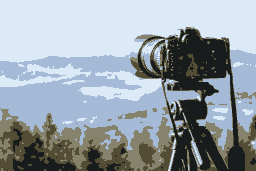
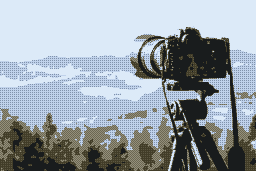
Working type 1 colored dithering

diff --git a/src/picture/ColoredDitheringConvertor.java b/src/picture/ColoredDitheringConvertor.java
@@ -12,7 +12,8 @@ public final class ColoredDitheringConvertor {
 
 	private static int _pictureWidth, _pictureHeight;
 
-	private static int _whitePixel, _lightPixel, _mediumPixel, _darkPixel, _blackPixel;
+	private static int[] _lightPixel, _mediumPixel, _darkPixel;
+	private static int _whitePixel, _blackPixel;
 
 	/* CONSTRUCTORS */
 
@@ -37,6 +38,7 @@ public final class ColoredDitheringConvertor {
 	private static BufferedImage executeConversion(int exportedWidth) {
 		prepareVariables(exportedWidth);
 		getPixelShades();
+		createPalette();
 		mainLoop();
 
 		return _exportedPicture;
@@ -49,13 +51,17 @@ public final class ColoredDitheringConvertor {
 		_pictureHeight = _importedPicture.getHeight();
 
 		_exportedPicture = new BufferedImage(_pictureWidth, _pictureHeight, BufferedImage.TYPE_INT_ARGB);
+
+		_lightPixel = new int[2];
+		_mediumPixel = new int[2];
+		_darkPixel = new int[2];
 	}
 
 	private static void getPixelShades() {
 		_blackPixel = extractLocationBasedColours(0);
-		_lightPixel = extractLocationBasedColours(1);
-		_mediumPixel = extractLocationBasedColours(2);
-		_darkPixel = extractLocationBasedColours(3);
+		_darkPixel[0] = extractLocationBasedColours(1);
+		_mediumPixel[0] = extractLocationBasedColours(2);
+		_lightPixel[0] = extractLocationBasedColours(3);
 		_whitePixel = extractLocationBasedColours(4);
 	}
 
@@ -88,43 +94,105 @@ public final class ColoredDitheringConvertor {
 	}
 
 	private static int pixelToLuminosity(int pixel) {
+		int[] rgb = getPixelValues(pixel);
+
+		return (int) (.3f * rgb[0] + .59f * rgb[1] + .11f * rgb[2]);
+	}
+
+	private static int[] getPixelValues(int pixel) {
 		int a = (pixel >> 24) & 0xff;
 		int r = (pixel >> 16) & 0xff;
 		int g = (pixel >> 8) & 0xff;
 		int b = pixel & 0xff;
 
-		return (int) (.3f * r + .59f * g + .11f * b);
+		return new int[] { r, g, b };
+	}
+
+	private static int getPixelValue(int[] rgb) {
+		return (255 << 24) | (rgb[0] << 16) | (rgb[1] << 8) | rgb[2];
+	}
+
+	private static void createPalette() {
+		int[] hsv = rgbToHsv(_darkPixel[0]);
+		_darkPixel[0] = hsvToRgb(hsv[0], Math.clamp(hsv[1] * 0.8f, 0f, 255f), Math.clamp(hsv[2] * 1.1f, 0f, 255f));
+		_darkPixel[1] = hsvToRgb(hsv[0], Math.clamp(hsv[1] * 1.1f, 0f, 255f), Math.clamp(hsv[2] * 0.8f, 0f, 255f));
+
+		hsv = rgbToHsv(_mediumPixel[0]);
+		_mediumPixel[0] = hsvToRgb(hsv[0], Math.clamp(hsv[1] * 0.8f, 0f, 255f), Math.clamp(hsv[2] * 1.1f, 0f, 255f));
+		_mediumPixel[1] = hsvToRgb(hsv[0], Math.clamp(hsv[1] * 1.1f, 0f, 255f), Math.clamp(hsv[2] * 0.8f, 0f, 255f));
+
+		hsv = rgbToHsv(_lightPixel[0]);
+		_lightPixel[0] = hsvToRgb(hsv[0], Math.clamp(hsv[1] * 0.8f, 0f, 255f), Math.clamp(hsv[2] * 1.1f, 0f, 255f));
+		_lightPixel[1] = hsvToRgb(hsv[0], Math.clamp(hsv[1] * 1.1f, 0f, 255f), Math.clamp(hsv[2] * 0.8f, 0f, 255f));
 	}
 
 	private static int[] rgbToHsv(int[] rgb) {
-		float r = (float) rgb[0] / 255f;
-		float g = (float) rgb[1] / 255f;
-		float b = (float) rgb[3] / 255f;
+		float r = ((float) rgb[0]) / 255f;
+		float g = ((float) rgb[1]) / 255f;
+		float b = ((float) rgb[2]) / 255f;
 
 		float M = Math.max(r, Math.max(g, b));
 		float m = Math.min(r, Math.min(g, b));
-		float c = M - m;
-		int s = (int) ((c / M) * 100f);
+		float d = M - m;
 
-		float R = (M - r) / c;
-		float G = (M - g) / c;
-		float B = (M - b) / c;
-
-		float H = 0;
-		if (M == m) {
-			H = 0;
-		} else if (M == r) {
-			H = 0f + B - G;
+		int h = 0;
+		if (M == r) {
+			h = Math.round(60f * (((g - b) / d) % 6));
 		} else if (M == g) {
-			H = 2f + R - B;
+			h = Math.round(60f * ((b - r) / d + 2f));
 		} else if (M == b) {
-			H = 4f + G - R;
+			h = Math.round(60f * ((r - g) / d + 4f));
 		}
-		
-		int h = (int) (((H / 6f) % 1 ) * 360f);
-		int v = (int) (M * 100f);
-		
-		return new int[] {h, s, v};
+
+		int s = 0;
+		if (M != 0) {
+			s = Math.round((d / M) * 100f);
+		}
+
+		int v = Math.round(M * 100f);
+
+		return new int[] { h, s, v };
+	}
+
+	private static int[] rgbToHsv(int value) {
+		return rgbToHsv(getPixelValues(value));
+	}
+
+	private static int[] hsvToRgb(int[] hsv) {
+		float h = (float) hsv[0];
+		float s = ((float) hsv[1]) / 100f;
+		float v = ((float) hsv[2]) / 100f;
+
+		float C = s * v;
+		float H = h / 60f;
+		float X = C * (1 - Math.abs(H % 2f - 1));
+
+		float[] RGB = new float[3];
+
+		if (H < 1) {
+			RGB = new float[] { C, X, 0 };
+		} else if (H < 2) {
+			RGB = new float[] { X, C, 0 };
+		} else if (H < 3) {
+			RGB = new float[] { 0, C, X };
+		} else if (H < 4) {
+			RGB = new float[] { 0, X, C };
+		} else if (H < 5) {
+			RGB = new float[] { X, 0, C };
+		} else if (H < 6) {
+			RGB = new float[] { C, 0, X };
+		}
+
+		float m = v - C;
+		int r = Math.round((RGB[0] + m) * 255f);
+		int g = Math.round((RGB[1] + m) * 255f);
+		int b = Math.round((RGB[2] + m) * 255f);
+
+		return new int[] { r, g, b };
+	}
+
+	private static int hsvToRgb(float h, float s, float v) {
+		return getPixelValue(hsvToRgb(new int[] { Math.round(h), Math.round(s), Math.round(v) }));
 	}
 
 	private static void mainLoop() {
@@ -145,13 +213,25 @@ public final class ColoredDitheringConvertor {
 			_exportedPicture.setRGB(x, y, _blackPixel);
 			break;
 		case 1:
-			_exportedPicture.setRGB(x, y, _lightPixel);
+			if (x % 2 == 0 || y % 2 == 0) {
+				_exportedPicture.setRGB(x, y, _darkPixel[1]);
+			} else {
+				_exportedPicture.setRGB(x, y, _darkPixel[0]);
+			}
 			break;
 		case 2:
-			_exportedPicture.setRGB(x, y, _mediumPixel);
+			if ((x + y) % 2 == 0) {
+				_exportedPicture.setRGB(x, y, _mediumPixel[1]);
+			} else {
+				_exportedPicture.setRGB(x, y, _mediumPixel[0]);
+			}
 			break;
 		case 3:
-			_exportedPicture.setRGB(x, y, _darkPixel);
+			if (x % 2 == 0 && y % 2 == 0) {
+				_exportedPicture.setRGB(x, y, _lightPixel[1]);
+			} else {
+				_exportedPicture.setRGB(x, y, _lightPixel[0]);
+			}
 			break;
 		default:
 			_exportedPicture.setRGB(x, y, _whitePixel);
